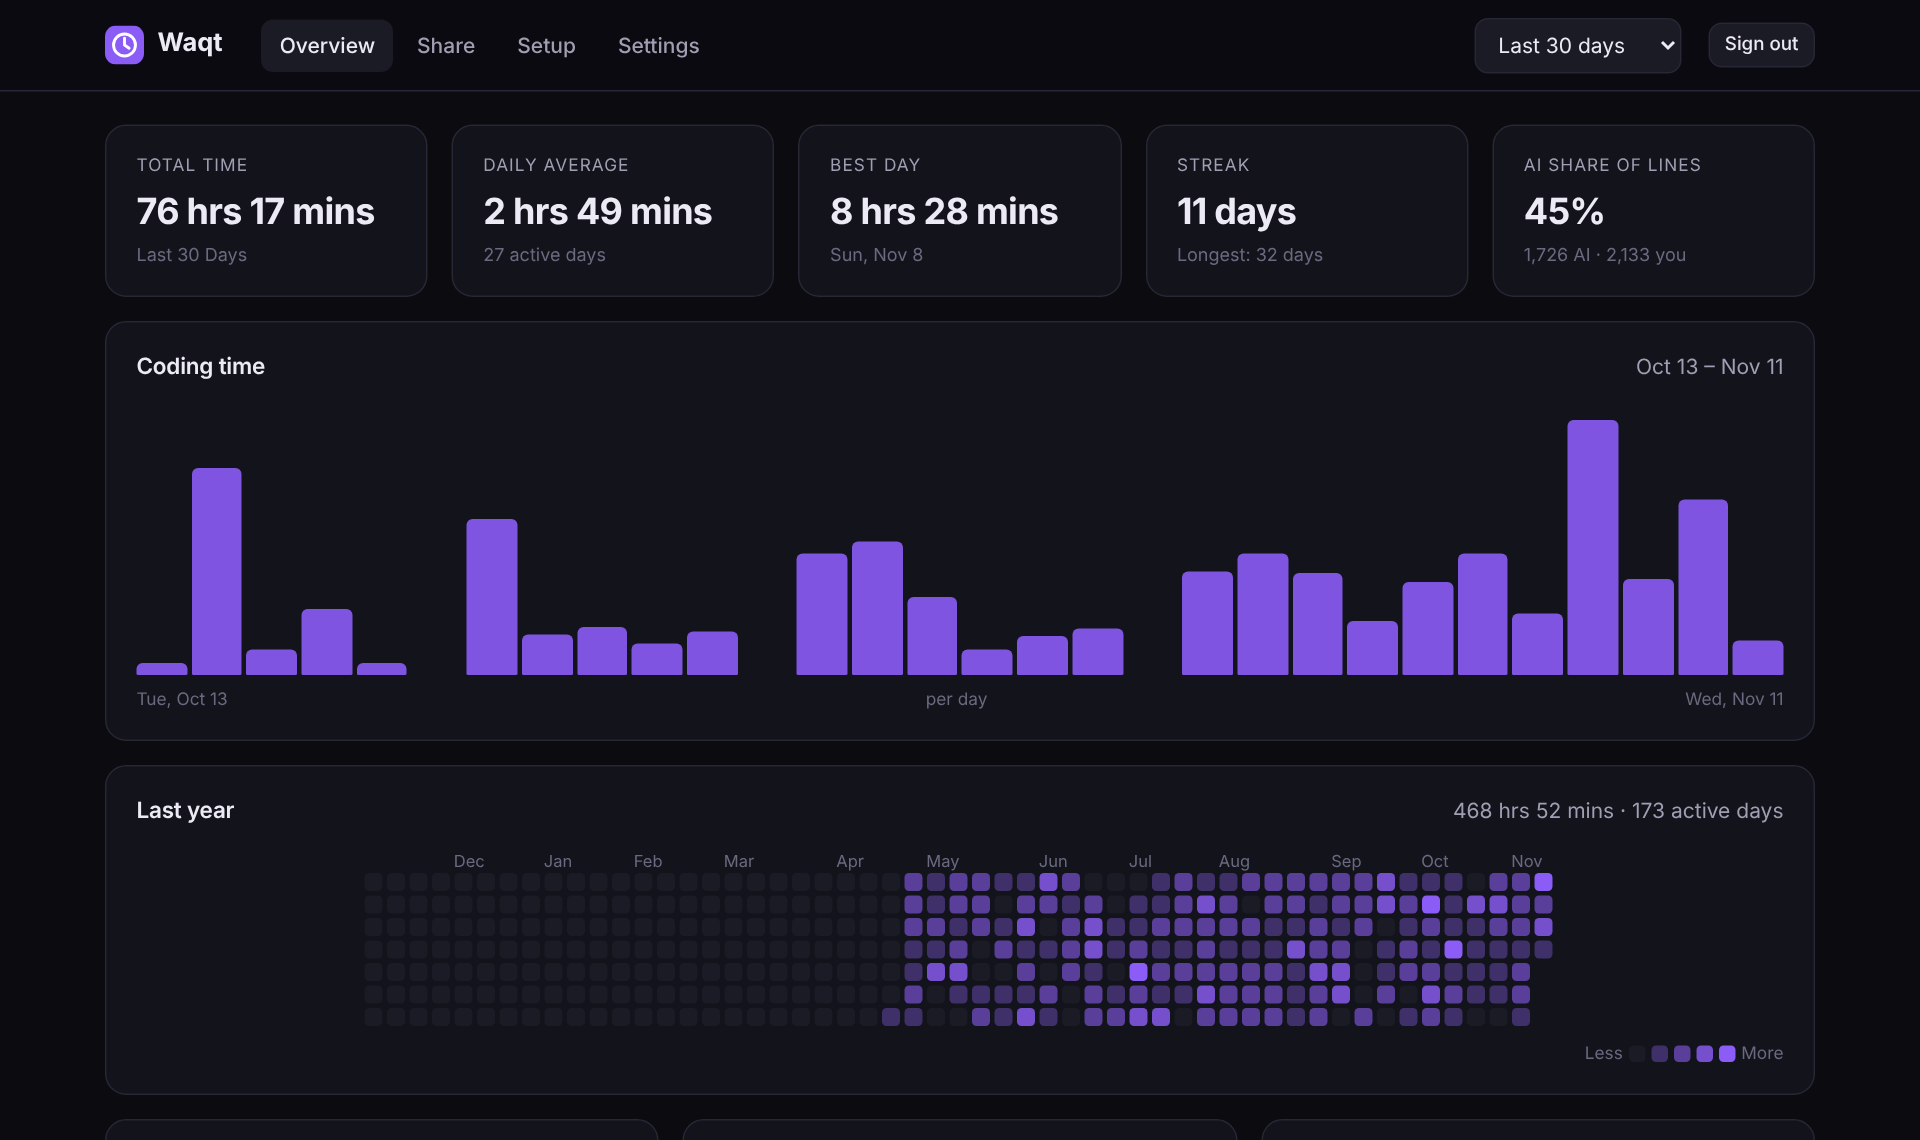
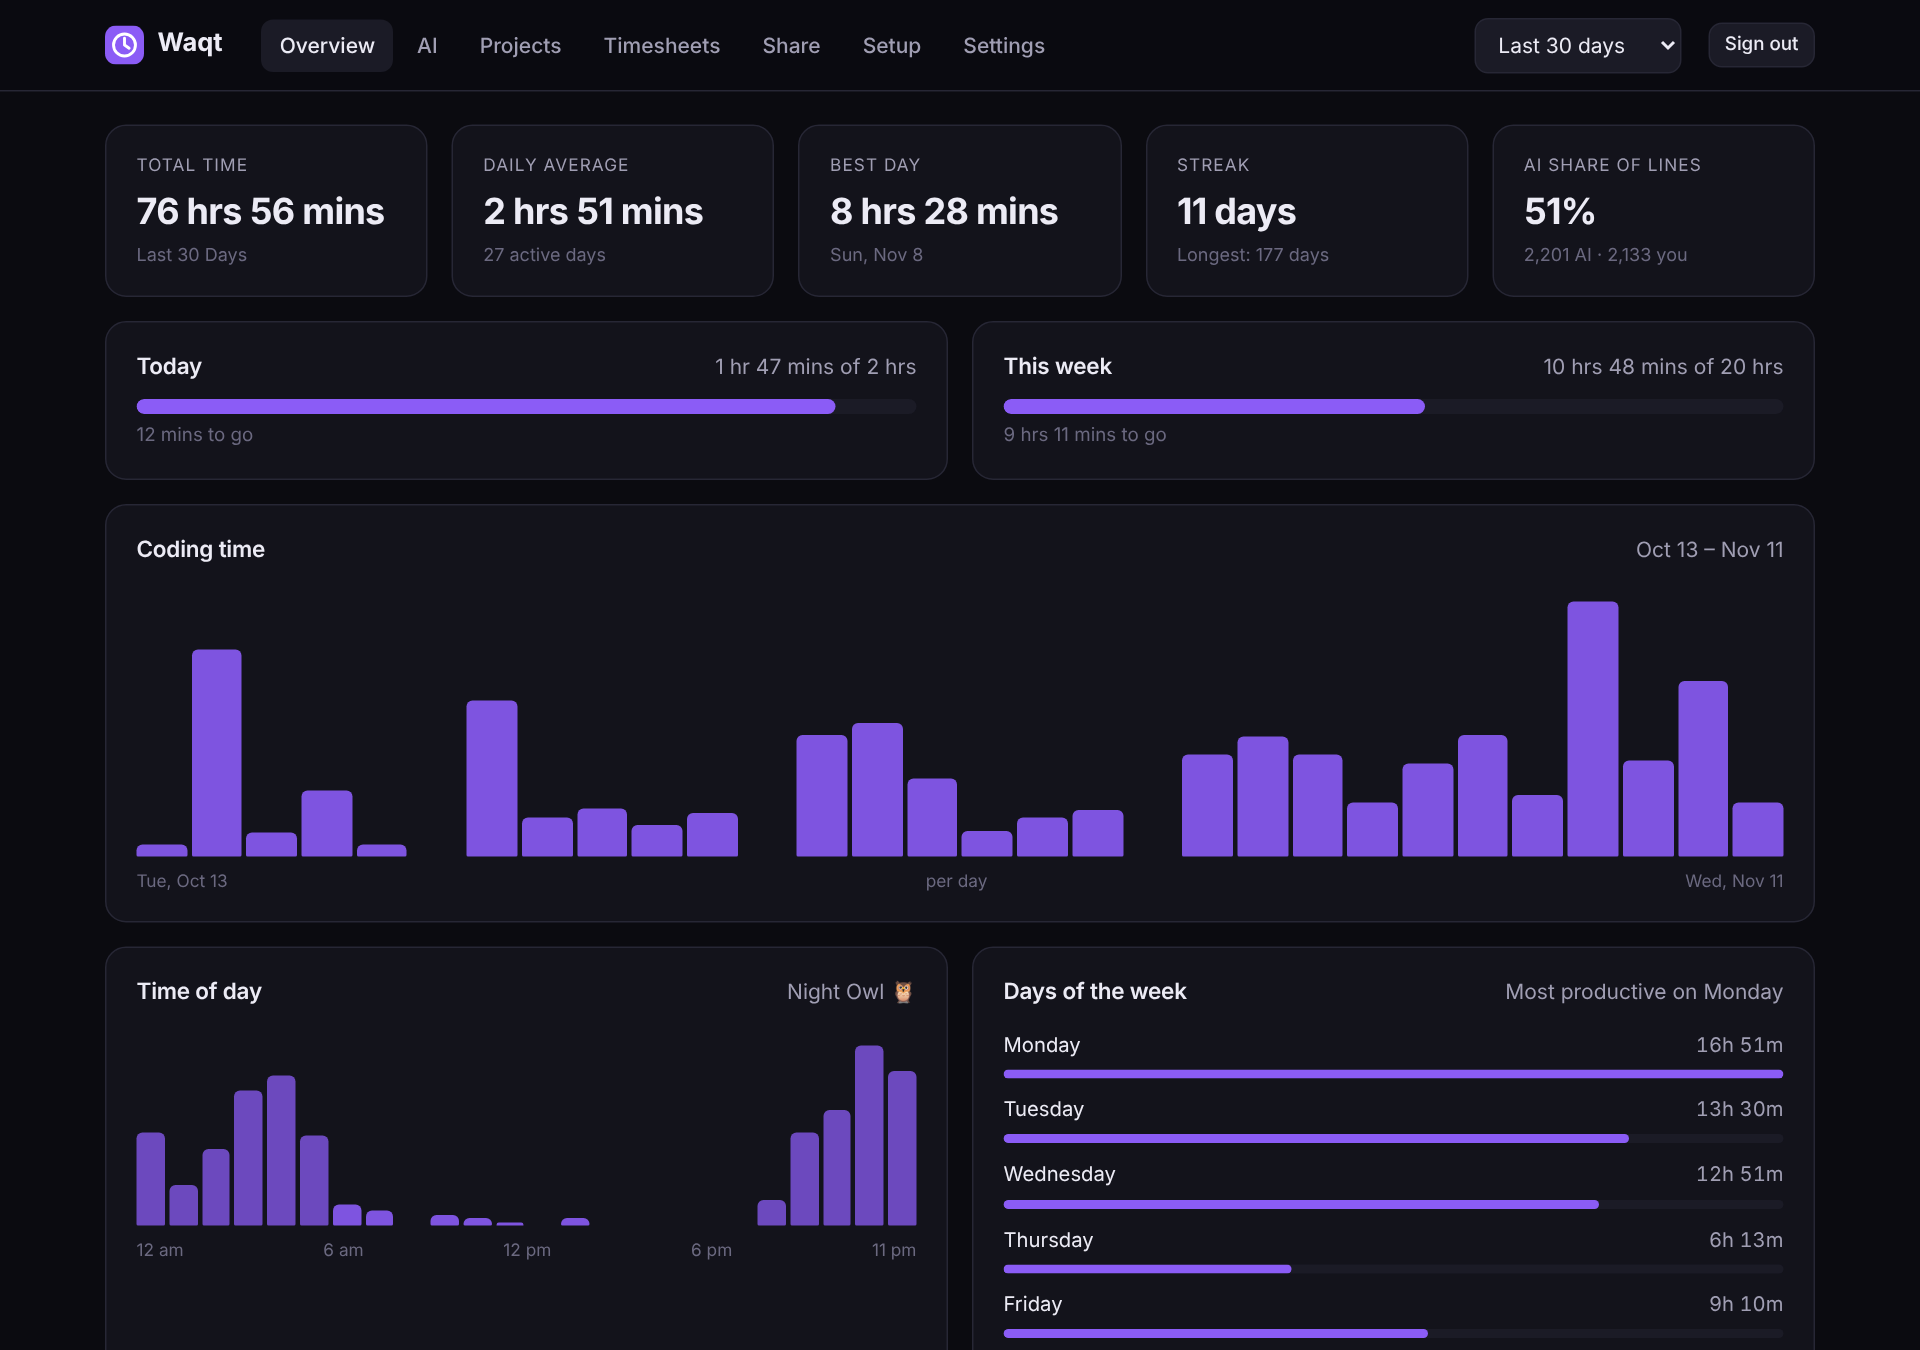
Document import, AI insights, goals, reports, timesheets, README action and updates
README sections for every new feature, refreshed screenshots and sample cards
(including the new time-of-day and AI cards).

diff --git a/README.md b/README.md
@@ -20,14 +20,19 @@ Keeps your whole history. Costs nothing.
 
 WakaTime's free plan only keeps 1 week of history. Waqt is a small server you run on your own Cloudflare account. It speaks the same API, so the official WakaTime plugins for 70+ editors send your activity to **your** server instead. You get:
 
-- **Your full history, forever.** Daily totals are never deleted.
-- **README cards and badges** for your GitHub profile.
-- **A public profile page** you can share or embed on your portfolio with an `<iframe>`.
-- **A private dashboard** with projects, languages, editors, activity type, OS, machines and a year heatmap.
-- **AI vs. you**: if your plugin reports AI line changes (Cursor, Copilot, Claude Code…), Waqt shows the split.
-- **Keep WakaTime too, if you want.** Waqt can pass every heartbeat on to WakaTime, so your WakaTime account and anything built on it keep working.
-- **Privacy by default.** Project names, machine names and file paths are never public unless you say so.
+- **Your full history, forever.** Daily totals are never deleted, and you can **import your old WakaTime history** in one click.
+- **A private dashboard** with projects, languages, editors, activity type, OS, machines, time of day, days of the week and a year heatmap.
+- **AI insights.** Time spent with AI agents, the share of lines written by AI vs. you, sessions, prompts, tokens and time per model (Claude Code, Cursor, Copilot, Codex…).
+- **Tidy projects.** Rename or merge projects and label them, for example by client.
+- **Goals and a weekly report** to Discord or Telegram every Monday.
+- **Timesheets** with hourly rates per client, CSV export and printable invoices.
+- **README cards, badges and a stats block** for your GitHub profile, plus **a public profile page** you can share or embed on your portfolio.
+- **Keep WakaTime too, if you want.** Waqt can pass every heartbeat on to WakaTime (with retries), so your WakaTime account and anything built on it keep working.
+- **Privacy by default.** Project names, labels, machine names and file paths are never public unless you say so.
+- **Updates arrive by themselves** through a weekly GitHub Action in your copy.
 - **₹0 / $0.** No credit card, no subscription. Cloudflare's free plan is plenty for one person.
+
+![AI insights](docs/ai.png)
 
 ## Deploy in about two minutes
 
@@ -58,7 +63,11 @@ The dashboard's **Setup** tab shows this snippet with your real URL filled in.
 
 Your editor can only send to one server, so Waqt can forward every heartbeat to WakaTime for you. In Cloudflare open your Worker → **Settings → Variables and Secrets → Add**, choose **Secret**, name it `WAKATIME_API_KEY` and paste your key from [wakatime.com/api-key](https://wakatime.com/api-key).
 
-Waqt sends the heartbeats exactly as your editor sent them (AI fields, dependencies, user agent, machine name and time zone included), in the background, so your editor never waits on WakaTime. The dashboard's **Setup** tab shows whether forwarding is working. To forward to another WakaTime-compatible server (Wakapi, Hackatime…) instead, also add a `WAKATIME_API_URL` variable such as `https://wakapi.dev/api`.
+Waqt sends the heartbeats exactly as your editor sent them (AI fields, dependencies, user agent, machine name and time zone included), in the background, so your editor never waits on WakaTime. If WakaTime is down, batches are queued and retried for up to two weeks. The dashboard's **Setup** tab shows whether forwarding is working and lets you switch it off. To forward to another WakaTime-compatible server (Wakapi, Hackatime…) instead, also add a `WAKATIME_API_URL` variable such as `https://wakapi.dev/api`.
+
+### Import your WakaTime history
+
+With `WAKATIME_API_KEY` set, open **Setup → Import from WakaTime**. Waqt asks WakaTime for an export of all your heartbeats, your browser counts the time (with the same code the server uses) and Waqt stores compact daily totals, including time of day and AI usage. Only days before Waqt's first heartbeat are imported, so nothing is counted twice. Importing again replaces the previous import, and **Remove imported data** undoes it. You can also upload an export file you downloaded from WakaTime yourself.
 
 ## Add stats to your GitHub README
 
@@ -68,6 +77,8 @@ Turn on **Public profile** in Settings (it's on by default), then use the **Shar
 | --- | --- |
 | Top languages | <img src="docs/languages.svg" width="300" alt="Top languages card"> |
 | Coding stats | <img src="docs/stats.svg" width="340" alt="Coding stats card"> |
+| Time of day | <img src="docs/hours.svg" width="360" alt="Time of day card"> |
+| AI coding | <img src="docs/ai.svg" width="360" alt="AI coding card"> |
 | Badge | <img src="docs/badge.svg" alt="Coding time badge"> |
 
 ![Activity heatmap card](docs/heatmap.svg)
@@ -76,10 +87,12 @@ Turn on **Public profile** in Settings (it's on by default), then use the **Shar
 ![Top languages](https://waqt.<you>.workers.dev/card/languages.svg?range=last_30_days)
 ![Coding stats](https://waqt.<you>.workers.dev/card/stats.svg)
 ![Activity](https://waqt.<you>.workers.dev/card/heatmap.svg)
+![When I code](https://waqt.<you>.workers.dev/card/hours.svg?range=last_30_days)
+![AI coding](https://waqt.<you>.workers.dev/card/ai.svg?range=last_30_days)
 ![Coding time](https://waqt.<you>.workers.dev/badge/last_7_days.svg)
 ```
 
-**Cards:** `languages`, `editors`, `os`, `categories`, `projects` (only if project names are public), `stats`, `heatmap`.
+**Cards:** `languages`, `editors`, `os`, `categories`, `projects` (only if project names are public), `stats`, `heatmap`, `hours`, `ai`.
 
 | Option | Values | Default |
 | --- | --- | --- |
@@ -96,6 +109,39 @@ Turn on **Public profile** in Settings (it's on by default), then use the **Shar
 
 **Badges:** `/badge/<range>.svg` with optional `label`, `color` (hex) and `style=flat-square`. A [Shields.io endpoint](https://shields.io/badges/endpoint-badge) is at `/badge/<range>.json`.
 
+### A stats block in your profile README
+
+Like the WakaTime README bots, but from Waqt: languages, editors, projects, OS, time of day (Night Owl or Early Bird), most productive weekday, AI use and your streak, as a text block.
+
+1. Add these two lines to your profile README where the block should go:
+   ```md
+   <!--START_SECTION:waqt-->
+   <!--END_SECTION:waqt-->
+   ```
+2. Optional: add your Waqt key as a repository secret named `WAQT_API_KEY` to include private data such as project names.
+3. Save this as `.github/workflows/waqt.yml` in that repository:
+   ```yaml
+   name: Waqt stats
+   on:
+     schedule:
+       - cron: '17 */6 * * *'
+     workflow_dispatch:
+   permissions:
+     contents: write
+   jobs:
+     update:
+       runs-on: ubuntu-latest
+       steps:
+         - uses: actions/checkout@v4
+         - uses: mohdrafey1/waqt/readme-action@main
+           with:
+             url: https://waqt.<you>.workers.dev
+             api_key: ${{ secrets.WAQT_API_KEY }}
+             range: last_7_days
+   ```
+
+Options: `range`, `sections` (`summary,languages,editors,projects,os,categories,hours,weekdays,ai,streak`), `readme`, `section_name`, `commit_message`. It only commits when your stats changed. The raw markdown is at `/api/v1/users/<user>/readme.md`.
+
 ## Embed on your website
 
 The public profile lives at `https://waqt.<you>.workers.dev/profile/`. To embed it:
@@ -106,7 +152,22 @@ The public profile lives at `https://waqt.<you>.workers.dev/profile/`. To embed 
   width="100%" height="560" style="border:0" loading="lazy" title="My coding activity"></iframe>
 ```
 
-Options: `range` (`last_7_days`, `last_30_days`, `last_year`, `all_time`), `theme` (`auto`, `dark`, `light`), `sections` (`stats`, `heatmap`, `daily`, `languages`, `editors`, `categories`, `os`, `projects`). The SVG cards above also work as plain `<img>` tags on any site, and every public JSON endpoint sends CORS headers so you can build your own widget.
+Options: `range` (`last_7_days`, `last_30_days`, `last_year`, `all_time`), `theme` (`auto`, `dark`, `light`), `sections` (`stats`, `heatmap`, `daily`, `hours`, `ai`, `languages`, `editors`, `categories`, `os`, `projects`). The SVG cards above also work as plain `<img>` tags on any site, and every public JSON endpoint sends CORS headers so you can build your own widget.
+
+## Goals, weekly reports and timesheets
+
+- **Goals:** set a daily and/or weekly goal in **Settings**. Progress bars show on the Overview.
+- **Weekly report:** add a Discord webhook (Server settings → Integrations → Webhooks) and/or a Telegram bot (create one with @BotFather, get your chat ID from @userinfobot). Every Monday from 9:00 your time you get last week's total vs. the week before, goal hits, best day, top languages, projects and labels, AI use and your streak. **Send a test report** tries it right away.
+- **Projects tab:** rename projects, merge several into one by giving them the same name, label them (e.g. by client) and hide them from public views.
+- **Timesheets tab:** pick a period, group by label or project, round each day up to 6/15/30/60 minutes, set an hourly rate per label and a currency, then **Export CSV** or **Print invoice** (Save as PDF works too).
+
+## Staying up to date
+
+The Deploy button makes a copy of Waqt in your GitHub account (not a fork), so updates can't arrive by themselves. Your copy includes `.github/workflows/waqt-update.yml`, which once a week pulls the latest Waqt, keeps your own Worker name, database, routes and variables, and opens an **Update Waqt** pull request. Merge it and Cloudflare redeploys; database changes are applied during the deploy.
+
+- To apply updates automatically instead, add the repository variable `WAQT_UPDATE_MODE` = `direct` (Settings → Secrets and variables → Actions → Variables).
+- If GitHub doesn't allow the workflow to open pull requests, the run summary links to the ready-made branch, or allow it in Settings → Actions → General → "Allow GitHub Actions to create and approve pull requests".
+- You can run it any time from the **Actions** tab.
 
 ## Works with WakaTime tools
 
@@ -119,6 +180,7 @@ Waqt implements the parts of the WakaTime API that editors and popular tools use
 | `GET /api/v1/users/:user/stats/:range` | [github-readme-stats](https://github.com/anuraghazra/github-readme-stats), dashboards |
 | `GET /api/v1/users/current/summaries` | scripts and integrations |
 | `GET /api/v1/users/:user/all_time_since_today` | profile widgets |
+| `GET /api/v1/users/:user/readme.md` | the README stats block |
 
 Use `current` with your key for private data. Any other username returns the public view. Examples:
 
@@ -141,7 +203,7 @@ Yes, for one person. Rough numbers for a heavy coder:
 | Cloudflare free plan | Allowance | Waqt's typical use |
 | --- | --- | --- |
 | Worker requests | 100,000 / day | ~1,000–3,000 |
-| D1 rows written | 100,000 / day | ~3,000 |
+| D1 rows written | 100,000 / day | ~3,000 (a one-time import of a few years: ~50,000) |
 | D1 rows read | 5,000,000 / day | well under 10% |
 | D1 storage | 5 GB (500 MB per database) | ~150 MB per year of raw data |
 
@@ -161,14 +223,19 @@ Time is counted the way WakaTime counts it: each heartbeat gets credit for the g
 
 | Path | What's there |
 | --- | --- |
-| `src/routes/api.ts` | WakaTime-compatible API and settings |
+| `src/routes/api.ts` | WakaTime-compatible API, settings, timesheet and reports |
+| `src/routes/importer.ts` | WakaTime history import |
 | `src/routes/cards.ts` | SVG cards and badges |
 | `src/ingest.ts` | validates and stores heartbeats |
+| `public/lib/core.js` | how time is counted (shared by the Worker and the browser) |
 | `src/summaries.ts` | turns heartbeats into daily totals, pruning |
 | `src/stats.ts` | stats queries and the public cache |
-| `src/forward.ts` | optional forwarding to WakaTime |
+| `src/forward.ts` | optional forwarding to WakaTime, with a retry queue |
+| `src/report.ts` | weekly report to Discord / Telegram |
+| `src/readme.ts`, `readme-action/` | the profile README stats block and its GitHub Action |
 | `public/` | dashboard and profile page (plain HTML/JS, no build step) |
 | `migrations/` | D1 schema |
+| `test/` | tests that run inside the Workers runtime |
 
 ## Run it locally
 
@@ -180,6 +247,11 @@ npm run dev                      # http://localhost:8787
 ```
 
 Point a local `~/.wakatime.cfg` at `http://localhost:8787/api/v1` to test with a real editor.
+
+```bash
+npm test          # 38 tests in the Workers runtime (Vitest + @cloudflare/vitest-plugin)
+npm run typecheck
+```
 
 ## Deploy with the CLI instead
 
@@ -194,7 +266,7 @@ npm run deploy                       # applies migrations, then deploys
 
 **Does any data go to WakaTime?** No. The plugins only talk to the `api_url` you set.
 
-**Can I import my old WakaTime history?** Not yet. It's on the roadmap.
+**Can I import my old WakaTime history?** Yes: Setup → Import from WakaTime (needs the `WAKATIME_API_KEY` secret).
 
 **Is it multi-user?** No. One instance per person keeps it simple and inside the free plan. Anyone can deploy their own with the button above.
 
